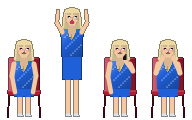
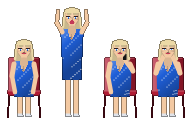
Celeb #16: dress skirt matches the top, symmetric straight-ahead eyes
Dresses (code-drawn) now continue the top's shading gradient and sequins past the waist instead
of a flat-colored skirt. #16 regenerated with it; her eyes redrawn as a mirrored pair (lash line
with an outer flick, white / centered blue iris / white, darker lower iris) so they no longer
look uneven or cross-eyed.

Claude-Session: https://claude.ai/code/session_01CcgHT1pqBqfrX5GZbFhXLS

diff --git a/src/render/celebs.ts b/src/render/celebs.ts
@@ -105,8 +105,12 @@ function drawCeleb(ctx: Ctx, ox: number, c: CelebLook, frame: number) {
   }
   // seat / lap
   const hipY = standing ? shinTop - L(22) : shinTop - L(7);
-  const lap = c.outfit === 'dress' ? col : legCol;
+  // a dress continues below the waist in the same shaded, sequined fabric as the top
+  // (same gradient as the top: it simply carries on past the waist, so the dress reads as one piece)
+  let lap: string | CanvasGradient = legCol;
+  if (c.outfit === 'dress') { const t0 = hipY - L(28); lap = ctx.createLinearGradient(cx - L(12), t0, cx + L(12), hipY); lap.addColorStop(0, hi); lap.addColorStop(0.4, col); lap.addColorStop(1, sh); }
   poly(ctx, [[cx - L(10), hipY], [cx + L(10), hipY], [cx + L(9.5), shinTop + 1], [cx - L(9.5), shinTop + 1]], lap);
+  if (c.outfit === 'dress') { const span = Math.max(2, shinTop - hipY - L(1)); for (let i = 0; i < (standing ? 12 : 6); i++) ell(ctx, cx + L(((i * 37) % 19) - 9), hipY + L(1) + ((i * 13) % 24) / 24 * span, L(0.6), L(0.6), '#ffffff'); }
   // torso / outfit
   const shY = hipY - L(28);
   // long hair falls behind the head and shoulders: drawn before the body so the neck and collar stay in front of it
